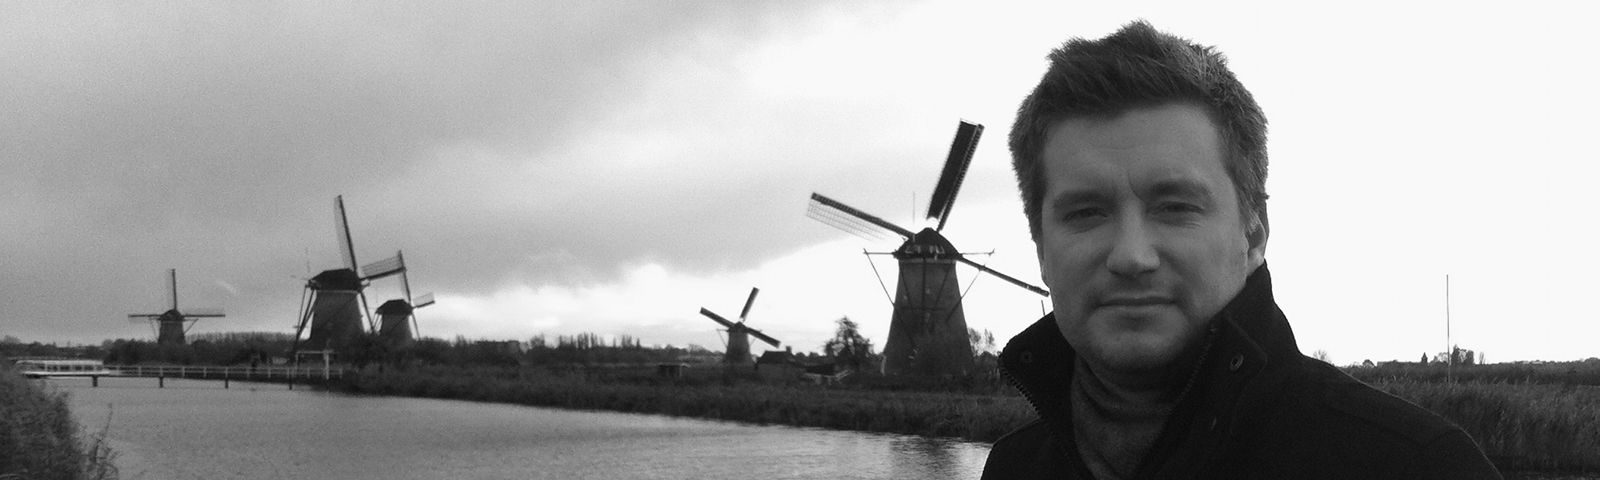
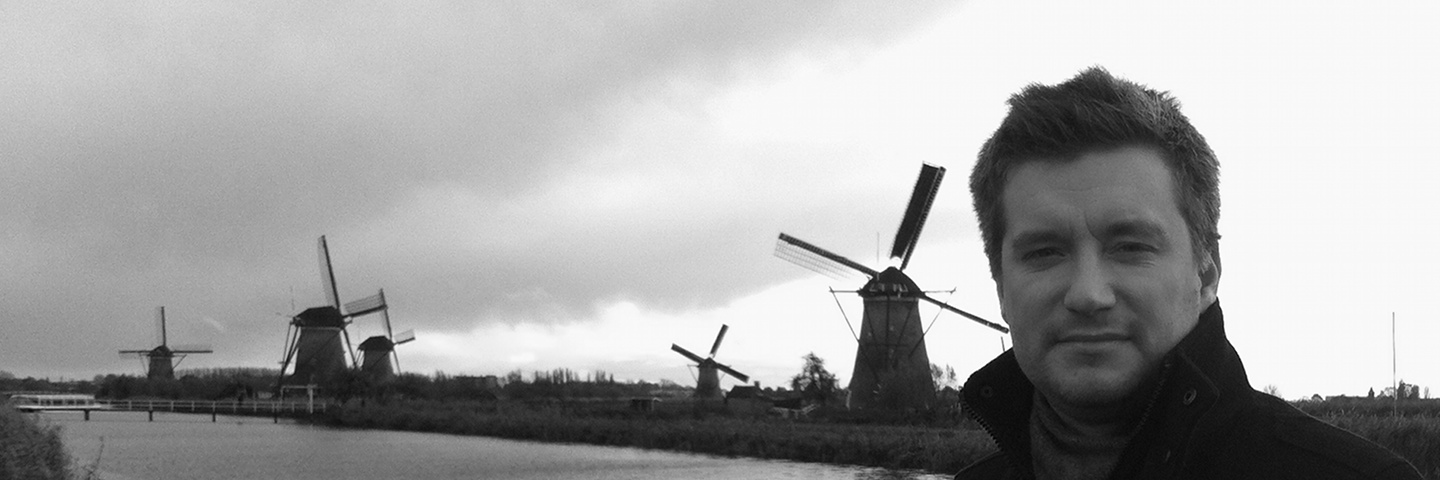
Change homepage photo

diff --git a/theme/static/css/style.css b/theme/static/css/style.css
@@ -454,7 +454,7 @@ body {
 
 
 .image-header {
-    background:url('../img/home-photo.jpg') right no-repeat;
+    background:url('../img/home-photo.jpg') center no-repeat;
     height:480px;
     position:relative;
 }
